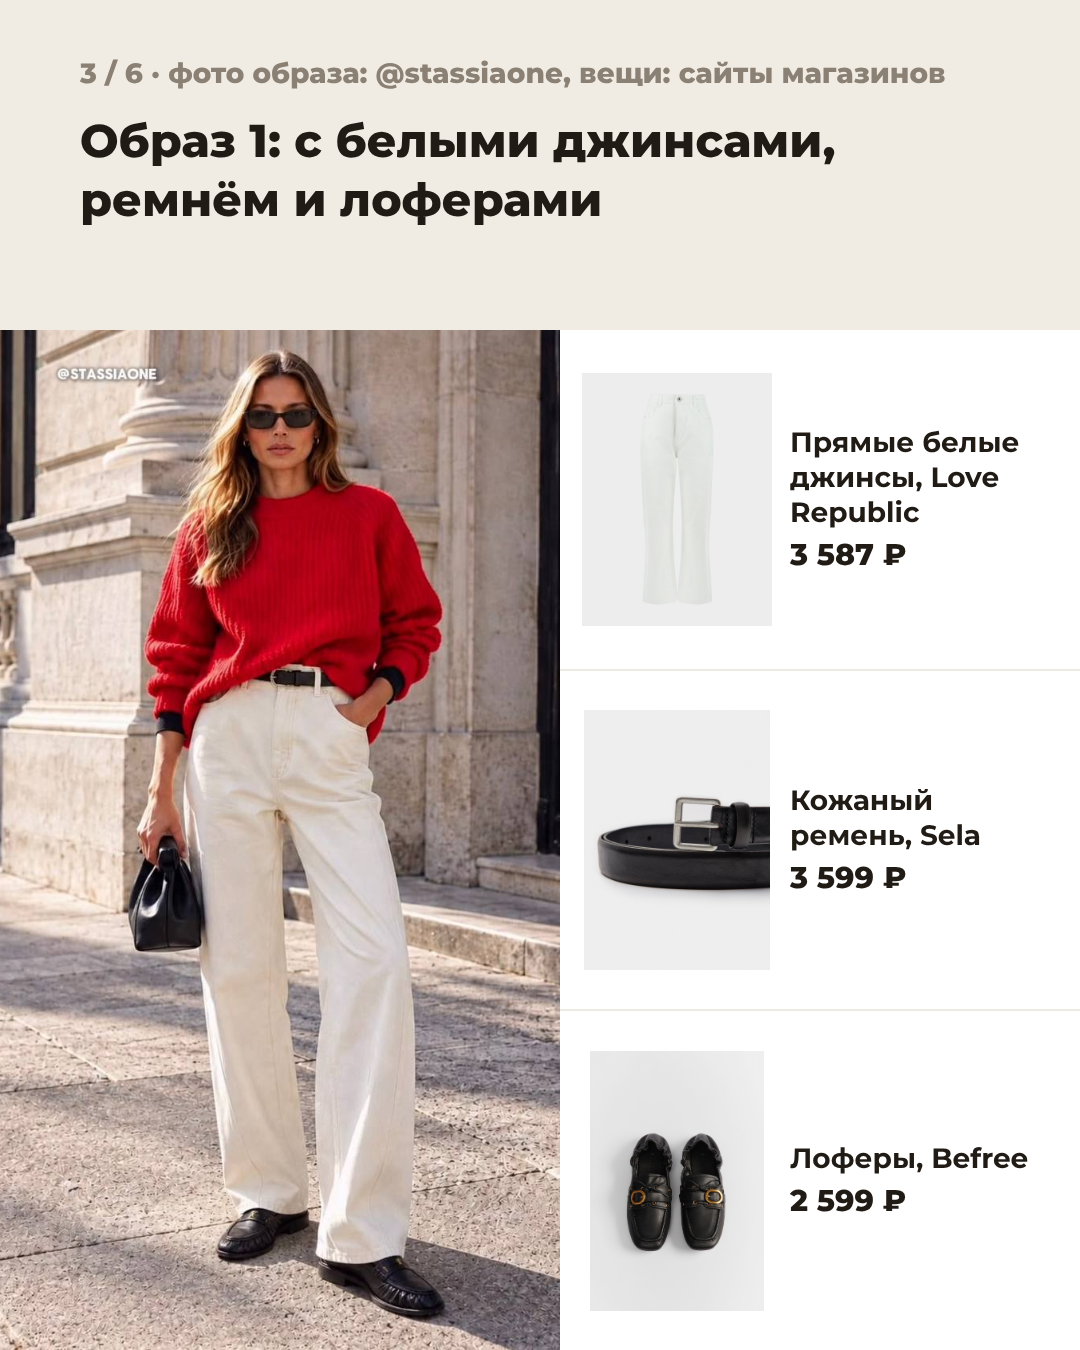
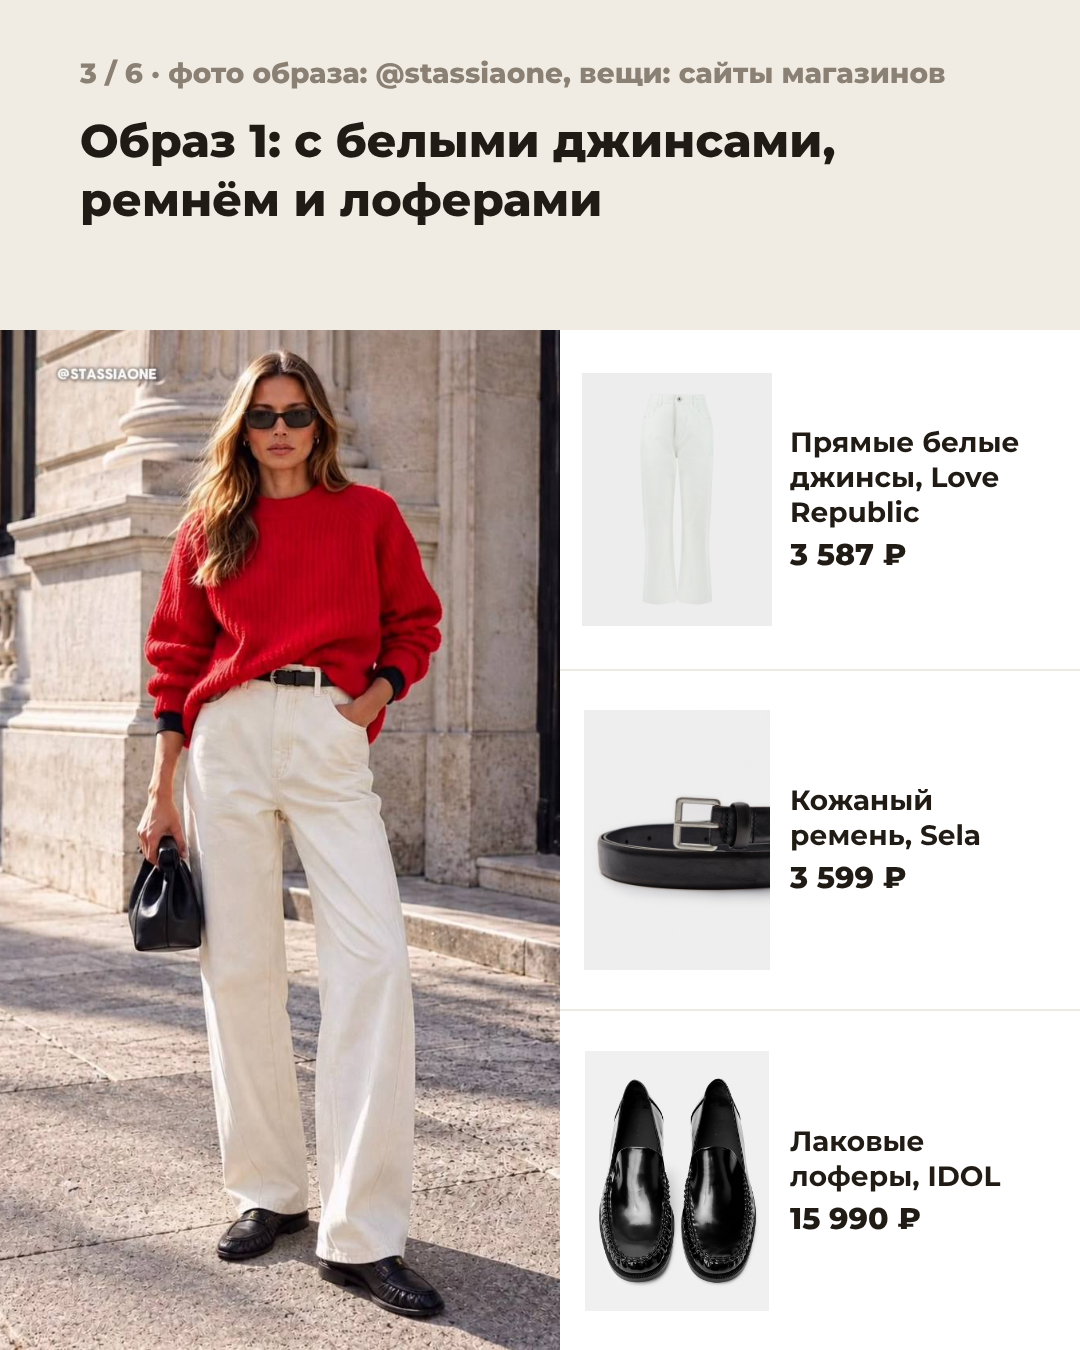
Carousel 9.11: IDOL patent loafers
Claude-Session: https://claude.ai/code/session_01WfDMDWpCzhvXCNpiNoLDnf

Changed region(s): [[0.55, 0.7778, 0.7028, 0.9644], [0.7333, 0.84, 0.9472, 0.9333]]

diff --git a/karusel-krasnyi-sviter/index.html b/karusel-krasnyi-sviter/index.html
@@ -76,7 +76,7 @@ header{display:grid;gap:10px}
   <div class="status">
 <span class="pill wait">Готова, проверена</span>
 <span class="pill">6 слайдов · 1080×1350</span>
-<span class="pill">Фото: LIME, Love Republic, Befree, Sela, образы @stassiaone и подборка Ирины</span>
+<span class="pill">Фото: LIME, Love Republic, Befree, Sela, IDOL, образы @stassiaone и подборка Ирины</span>
 </div>
 </header>
 <div class="top">
@@ -102,7 +102,7 @@ header{display:grid;gap:10px}
       <p><b>irina_sitko23</b> Красный свитер: одна вещь, три образа ❤</p>
       <p>Красный зимой выглядит дорого, если он единственный яркий цвет в образе. Всё остальное держим спокойным: белый, серый, чёрный.</p>
       <p>Образ 1: белые джинсы, кожаный ремень, лоферы<br>Образ 2: белый лонгслив, широкие серые брюки, шопер<br>Образ 3: серая юбка миди, сапоги с острым носом</p>
-      <p>Где купить:<br>Свитер — LIME, 4 999 ₽<br>Белые джинсы — Love Republic, 3 587 ₽<br>Ремень — Sela, 3 599 ₽<br>Лоферы — Befree, 2 599 ₽<br>Белый лонгслив — LIME, 1 799 ₽<br>Серые брюки — Love Republic, 4 999 ₽<br>Шопер — Befree, 4 999 ₽<br>Серая юбка — LIME, 5 999 ₽<br>Сапоги — Befree, 5 999 ₽</p>
+      <p>Где купить:<br>Свитер — LIME, 4 999 ₽<br>Белые джинсы — Love Republic, 3 587 ₽<br>Ремень — Sela, 3 599 ₽<br>Лаковые лоферы — IDOL, 15 990 ₽<br>Белый лонгслив — LIME, 1 799 ₽<br>Серые брюки — Love Republic, 4 999 ₽<br>Шопер — Befree, 4 999 ₽<br>Серая юбка — LIME, 5 999 ₽<br>Сапоги — Befree, 5 999 ₽</p>
       <p>Пиши «ГАЙД» в комментариях, и я пришлю тебе гайд 🤍</p>
       <p>Фото образов: @stassiaone и подборка Ирины. Фото вещей: сайты магазинов.</p>
       <p>#красныйсвитер #образнакаждыйдень #стильзимой #капсула #стилист</p>
@@ -132,7 +132,7 @@ header{display:grid;gap:10px}
 <img src="s/03.jpg" alt="" data-i="2">
 <div class="t">
 <span>Образ 1: белые джинсы, ремень, лоферы</span>
-<span class="src">Фото образа: @stassiaone; вещи: Love Republic, Sela, Befree</span>
+<span class="src">Фото образа: @stassiaone; вещи: Love Republic, Sela, IDOL</span>
 </div>
 </li>
       <li>
@@ -169,7 +169,7 @@ header{display:grid;gap:10px}
     <a class="shop" href="https://limestore.com/ru_ru/product/38769-3873_171_610_krasnyi" target="_blank" rel="noopener"><span>Свитер поло с шерстью, слайд 2</span><span class="price">4 999 ₽ · LIME</span></a>
     <a class="shop" href="https://loverepublic.ru/catalog/odezhda/dzhinsy/337330/" target="_blank" rel="noopener"><span>Белые прямые джинсы, слайд 3</span><span class="price">3 587 ₽ · Love Republic</span></a>
     <a class="shop" href="https://www.sela.ru/eshop/women/aksessuary/remni/SL6810163101_50/" target="_blank" rel="noopener"><span>Кожаный ремень, слайд 3</span><span class="price">3 599 ₽ · Sela</span></a>
-    <a class="shop" href="https://befree.ru/zhenskaya/product/BF2636682021/50" target="_blank" rel="noopener"><span>Лоферы, слайд 3</span><span class="price">2 599 ₽ · Befree</span></a>
+    <a class="shop" href="https://idol.ru/product/lofery-iz-lakirovannoj-kozhi-id5121306805-50/" target="_blank" rel="noopener"><span>Лаковые лоферы, слайд 3</span><span class="price">15 990 ₽ · IDOL</span></a>
     <a class="shop" href="https://limestore.com/ru_ru/product/35758-1582_688_110_belyi" target="_blank" rel="noopener"><span>Белый лонгслив, слайд 4</span><span class="price">1 799 ₽ · LIME</span></a>
     <a class="shop" href="https://loverepublic.ru/catalog/odezhda/bryuki/331093/" target="_blank" rel="noopener"><span>Широкие серые брюки, слайд 4</span><span class="price">4 999 ₽ · Love Republic</span></a>
     <a class="shop" href="https://befree.ru/zhenskaya/product/BF2635457028/50" target="_blank" rel="noopener"><span>Большой шопер, слайд 4</span><span class="price">4 999 ₽ · Befree</span></a>
